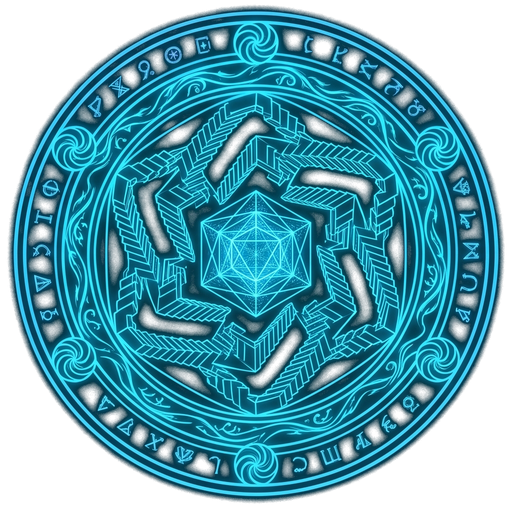
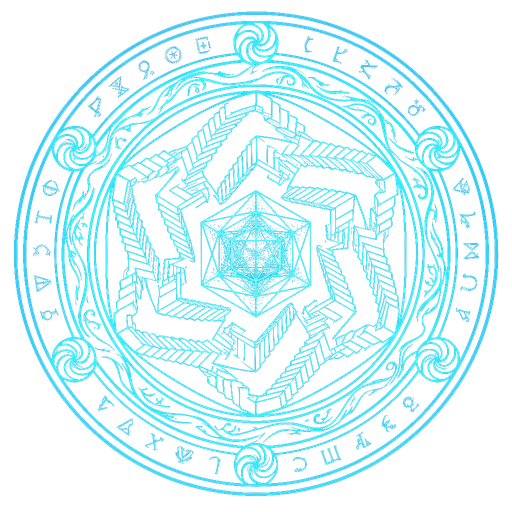
Add files via upload

diff --git a/index.html b/index.html
@@ -13,7 +13,7 @@
   <link rel="icon" type="image/png" sizes="16x16" href="icons/favicon-16.png">
   <link rel="apple-touch-icon" href="icons/apple-touch-icon.png">
   
-  <title>Solo Leveling — Тренировочный счётчик v6.5.10 (System Codex)</title>
+  <title>Solo Leveling — Тренировочный счётчик v6.5.13 (System Codex)</title>
   <style>
     @font-face {
       font-family: 'Orbitron';
@@ -455,7 +455,7 @@
       -webkit-appearance: none;
     }
     .reset-all:hover { background: #880000 !important; border-color: #ff0000 !important; color: #ffffff !important; box-shadow: 0 0 15px rgba(255, 0, 0, 0.5); }
-    .reset-all:active { transform: scale(0.96); background: #aa0000 !important; }
+    .reset-all:active { background: #aa0000 !important; }
 
     .restore-link {
         display: inline-block; margin-top: 15px; color: #40c0ff; font-size: 0.75rem; 
@@ -663,7 +663,7 @@
     /* SL:SYS-TOOLS:START */
     @keyframes sysToolsBtnFlash {
       0% { filter: brightness(1); transform: scale(1); }
-      35% { filter: brightness(1.8); transform: scale(1.04); }
+      35% { filter: brightness(1.8); transform: scale(0.94); }
       100% { filter: brightness(1); transform: scale(1); }
     }
     .sys-tools-btn-flash { animation: sysToolsBtnFlash 0.4s ease; }
@@ -877,7 +877,7 @@
       <div class="stat-line"><span>Пресс:</span><strong id="progPress">0</strong></div>
       <div class="stat-line"><span>Шаги:</span><strong id="progSteps">0</strong></div>
       <div style="margin-top: 10px; padding-top: 10px; border-top: 1px solid #00aaff22; text-align: center;">
-        <div style="opacity: 0.75; font-size: 0.85rem; margin-bottom: 8px; text-align: left;">Ваше место в общем Реестре Игроков</div>
+        <div style="opacity: 0.75; font-size: 0.85rem; margin-bottom: 12px; text-align: left;">Ваше место в общем Реестре Игроков</div>
         <button onclick="openLeaderboard()">РЕЕСТР ИГРОКОВ</button>
       </div>
     </div>
@@ -970,6 +970,7 @@
         <button class="reset-all" onclick="sysToolsFlashThenRun(this, resetDailyProgressAction)">Сбросить дневной прогресс</button>
         <button class="reset-all" style="margin-top:10px;" onclick="sysToolsFlashThenRun(this, forceFullResetAction)">Принудительный сброс дня</button>
         <button class="reset-all" style="margin-top:10px;" onclick="sysToolsFlashThenRun(this, resetChronicleAction)">Сбросить историю Летописи</button>
+        <button class="reset-all" style="margin-top:10px;" onclick="sysToolsFlashThenRun(this, () => { data.freezeNextAvailableAt = null; saveData(); })">Сбросить паузу Заморозки</button>
       </div>
     </div>
     <button class="close-status" onclick="document.getElementById('sysToolsOverlay').style.display='none'">ЗАКРЫТЬ</button>
@@ -1145,7 +1146,7 @@
 </div> 
 
 <script>
-  const APP_VERSION = '6.5.10';
+  const APP_VERSION = '6.5.13';
   const STORAGE_KEY = 'sl_daily_v5_5_0';
   const STATS_KEY = 'sl_total_stats_v5_5_0';
   const PREV_KEYS = ['sl_daily_v5_4_0', 'sl_daily_v5_3_3', 'sl_daily_v5_1_9', 'sl_daily_v5_1_8', 'sl_daily_v5_1_7', 'sl_daily_v5_1_6', 'sl_daily_v5_1_5', 'sl_daily_v5_1_4', 'sl_daily_v5_1_3', 'sl_daily_v5_1_2', 'sl_daily_v5_1_1', 'sl_daily_v5_0_0'];
@@ -1595,7 +1596,7 @@
       effects.push({ icon: 'icons/items/effect_limit_break.png', name: 'Преодоление предела', text: 'Кредиты за упражнения удвоены, пока активен режим.' });
     }
     if (data.activeTitle !== 'Новичок' && TITLE_ICON_IDS[data.activeTitle]) {
-      effects.push({ icon: `icons/items/${TITLE_ICON_IDS[data.activeTitle]}.png`, name: data.activeTitle, text: TITLES_DB[data.activeTitle].desc });
+      effects.push({ icon: `icons/items/${TITLE_ICON_IDS[data.activeTitle]}.png`, name: `Титул: ${data.activeTitle}`, text: TITLES_DB[data.activeTitle].desc });
     }
     return effects;
   }
@@ -2469,9 +2470,9 @@
           // статично, без наступления, при следующей же прорисовке экрана.
           data.freezeAnimPlayed = true;
         }
+        data.dailyNotices = { morning: false, complete: false };
       }
       data.limitBreakRoundPending = false;
-      data.dailyNotices = { morning: false, complete: false };
       data.remindersFiredHours = [];
       data.notificationLog = [];
       data.progressNoticesShown = [];
@@ -3768,8 +3769,11 @@
 
   function onFreezeTapCatcherClick() {
     if (data.activeScroll !== 'freeze') return;
+    if (!data.freezeNextAvailableAt) {
+      data.freezeNextAvailableAt = Date.now() + 30 * 24 * 60 * 60 * 1000;
+    }
     const daysUntilNext = Math.ceil((data.freezeNextAvailableAt - Date.now()) / (24*60*60*1000));
-    showConfirm(`Активирован Свиток Заморозки. Дневное задание приостановлено до окончания срока действия эффекта Свитка. Повторная активация станет доступна не раньше чем через ${daysUntilNext} дней, независимо от того, снимете вы эффект сейчас или дождётесь его естественного завершения.\n\nСнять эффект заморозки досрочно?`, () => {
+    showConfirm(`Активирован Свиток Заморозки. Дневное задание приостановлено до окончания срока действия эффекта Свитка. Повторная активация станет доступна не раньше чем через ${daysUntilNext} дней, независимо от того, снимете вы эффект сейчас или дождётесь его естественного завершения.\n\nСнять эффект заморозки досрочно?\n`, () => {
       data.activeScroll = null;
       data.freezeEndTimestamp = null;
       data.freezeAnimPlayed = false;

diff --git a/sw.js b/sw.js
@@ -1,6 +1,6 @@
 // Bump this on every release that changes any cached file, so old
 // clients pick up the new version instead of being stuck on a stale cache.
-const CACHE_VERSION = 'v6-5-10';
+const CACHE_VERSION = 'v6-5-13';
 const APP_CACHE = `solo-leveling-app-${CACHE_VERSION}`;
 
 const APP_SHELL = [

diff --git a/README.md b/README.md
@@ -1,6 +1,6 @@
 # Solo Leveling: Daily Training
 
-**Текущая версия: v6.5.10**
+**Текущая версия: v6.5.13**
 
 Трекер ежедневных тренировок в стилистике манхвы/аниме **Solo Leveling**. Ежедневное задание — полный норматив из пяти упражнений; неисполнение хотя бы одного из них влечёт штраф, за исключением случаев, когда особый расходный предмет или активированный эффект изменяет это условие. Оформлено как «Система» из первоисточника — уровни, ранги, титулы, артефакты, предметы.
 
